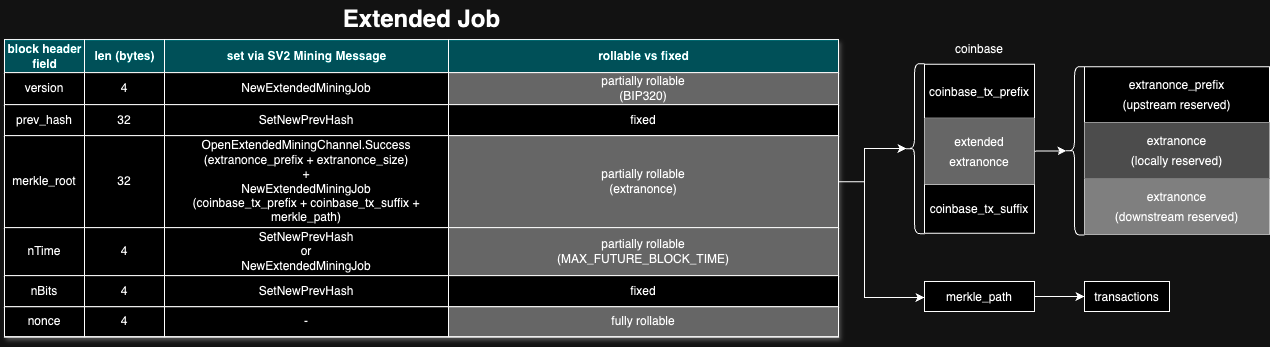
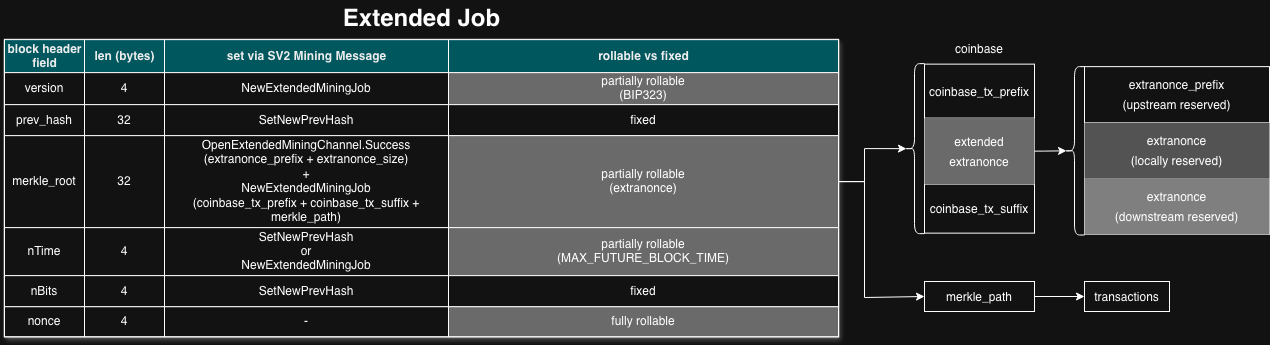
replace BIP320 with BIP323 for version rolling limitations

diff --git a/05-Mining-Protocol.md b/05-Mining-Protocol.md
@@ -14,7 +14,7 @@ Each Mining Device has to work on a unique part of the whole search space.
 The full search space is defined in part by valid values in the following block header fields:
 
 - `nonce` header field (32 bits)
-- `version` header field (16 bits, as specified by [BIP 320](https://github.com/bitcoin/bips/blob/master/bip-0320.mediawiki))
+- `version` header field (24 bits, as specified by [BIP 323](https://github.com/bitcoin/bips/blob/master/bip-0323.mediawiki))
 - `nTime` header field (32 bits timestamp, limited under [`MAX_FUTURE_BLOCK_TIME`](https://github.com/bitcoin/bitcoin/blob/28ce159bc327e6dfec34077ff2e379b23a95db65/src/chain.h#L29))
 
 The other portion of the block header that is used to define the full search space is the Merkle Root, which is deterministically computed from:
@@ -41,12 +41,12 @@ Standard Jobs are restricted to fixed Merkle Roots, where the only modifiable bi
 
 We call this header-only mining (HOM), and it is the smallest assignable unit of search space by the protocol.
 
-The size of the search space for one Standard Job, given a fixed `nTime` field, is `2^(NONCE_BITS + BIP320_VERSION_ROLLING_BITS) = ~280Th`, where `NONCE_BITS = 32` and `BIP320_VERSION_ROLLING_BITS = 16`.
+The size of the search space for one Standard Job, given a fixed `nTime` field, is `2^(NONCE_BITS + BIP323_VERSION_ROLLING_BITS) = ~72PH/s`, where `NONCE_BITS = 32` and `BIP323_VERSION_ROLLING_BITS = 24`.
 This is a guaranteed space before `nTime` rolling (or changing the Merkle Root by sending a new Job).
 
 Standard Jobs are distributed via the [`NewMiningJob`](#5315-newminingjob-server---client) message, which can ONLY be sent via [Standard Channels](#521-standard-channels).
 
-Note that Mining Devices with hashrate above 280 TH/s will outrun the true time when rolling the `nTime` field. This is not necessarily a problem, as long as the Job remains valid within the limits defined by the `MAX_FUTURE_BLOCK_TIME` constant of the Bitcoin protocol (2 hours).
+Note that Mining Devices with hashrate above 72 PH/s will outrun the true time when rolling the `nTime` field. This is not necessarily a problem, as long as the Job remains valid within the limits defined by the `MAX_FUTURE_BLOCK_TIME` constant of the Bitcoin protocol (2 hours).
 
 Depending on the hashrate of the Mining Device, it must receive new Standard Jobs (with a different Merkle Root) frequently enough in order to avoid rolling `nTime` too much ahead of the true time (which could result in rejected work).
 
@@ -407,7 +407,7 @@ If the `min_ntime` field is set, the client MUST start to mine on the new job im
 | channel_id  | U32         | Channel identifier, this must be a standard channel                                                                                                                                                                                                                                                                                                                                                                                                                                 |
 | job_id      | U32         | Identifier of the job as provided by NewMiningJob or NewExtendedMiningJob message                                                                                                                                                                                                                                                                                                                                                                                                   |
 | min_ntime   | OPTION[u32] | Smallest nTime value available for hashing for the new mining job. An empty value indicates this is a future job to be activated once a SetNewPrevHash message is received with a matching job_id. This SetNewPrevHash message provides the new prev_hash and min_ntime. If the min_ntime value is set, this mining job is active and miner must start mining on it immediately. In this case, the new mining job uses the prev_hash from the last received SetNewPrevHash message. |
-| version     | U32         | Valid version field that reflects the current network consensus. The general purpose bits (as specified in BIP320) can be freely manipulated by the downstream node. The downstream node MUST NOT rely on the upstream node to set the BIP320 bits to any particular value.                                                                                                                                                                                                         |
+| version     | U32         | Valid version field that reflects the current network consensus. The general purpose bits (as specified in BIP323) can be freely manipulated by the downstream node. The downstream node MUST NOT rely on the upstream node to set the BIP323 bits to any particular value.                                                                                                                                                                                                         |
 | merkle_root | U256         | Merkle root field as used in the bitcoin block header                                                                                                                                                                                                                                                                                                                                                                                                                              |
 
 ### 5.3.16 `NewExtendedMiningJob` (Server -> Client)
@@ -430,7 +430,7 @@ A proxy MUST translate the message into `NewMiningJob` for all downstream standa
 | job_id                  | U32            | Server’s identification of the mining job                                                                                                                                                                                                                                                                                                                                                                                                                                                        |
 | min_ntime               | OPTION[u32]    | Smallest nTime value available for hashing for the new mining job. An empty value indicates this is a future job to be activated once a SetNewPrevHash message is received with a matching job_id. This SetNewPrevHash message provides the new prev_hash and min_ntime. If the min_ntime value is set, this mining job is active and miner must start mining on it immediately. In this case, the new mining job uses the prev_hash from the last received SetNewPrevHash message. immediately. |
 | version                 | U32            | Valid version field that reflects the current network consensus                                                                                                                                                                                                                                                                                                                                                                                                                                  |
-| version_rolling_allowed | BOOL           | If set to True, the general purpose bits of version (as specified in BIP320) can be freely manipulated by the downstream node. The downstream node MUST NOT rely on the upstream node to set the BIP320 bits to any particular value. If set to False, the downstream node MUST use version as it is defined by this message.                                                                                                                                                                    |
+| version_rolling_allowed | BOOL           | If set to True, the general purpose bits of version (as specified in BIP323) can be freely manipulated by the downstream node. The downstream node MUST NOT rely on the upstream node to set the BIP323 bits to any particular value. If set to False, the downstream node MUST use version as it is defined by this message.                                                                                                                                                                    |
 | merkle_path             | SEQ0_255[U256] | Merkle path hashes ordered from deepest                                                                                                                                                                                                                                                                                                                                                                                                                                                          |
 | coinbase_tx_prefix      | B0_64K         | Prefix part of the coinbase transaction\*                                                                                                                                                                                                                                                                                                                                                                                                                                                        |
 | coinbase_tx_suffix      | B0_64K         | Suffix part of the coinbase transaction                                                                                                                                                                                                                                                                                                                                                                                                                                                          |
@@ -498,7 +498,7 @@ This message signals that JDC expects to be rewarded for working on a Custom Job
 | channel_id                  | U32            | Extended channel identifier                                                                                                                                           |
 | request_id                  | U32            | Client-specified identifier for pairing responses                                                                                                                     |
 | mining_job_token            | B0_255         | Token provided by JDS which uniquely identifies the Custom Job that JDC has declared. See the Job Declaration Protocol for more details.                              |
-| version                     | U32            | Valid version field that reflects the current network consensus. The general purpose bits (as specified in BIP320) can be freely manipulated by the downstream node.  |
+| version                     | U32            | Valid version field that reflects the current network consensus. The general purpose bits (as specified in BIP323) can be freely manipulated by the downstream node.  |
 | prev_hash                   | U256           | Previous block’s hash, found in the block header field                                                                                                                |
 | min_ntime                   | U32            | Smallest nTime value available for hashing                                                                                                                            |
 | nbits                       | U32            | Block header field                                                                                                                                                    |

diff --git a/07-Template-Distribution-Protocol.md b/07-Template-Distribution-Protocol.md
@@ -97,7 +97,7 @@ The primary template-providing function. Note that the `coinbase_tx_outputs` byt
 | --------------------------- | -------------- | ---------------------------------------------------------------------------------------------------------------------------------------------------------------------------------------------------------------------------------------------------------------------------------- |
 | template_id                 | U64            | Server’s identification of the template. Strictly increasing, the current UNIX time may be used in place of an ID                                                                                                                                                                  |
 | future_template             | BOOL           | True if the template is intended for future SetNewPrevHash message sent on the channel. If False, the job relates to the last sent SetNewPrevHash message on the channel and the miner should start to work on the job immediately.                                                |
-| version                     | U32            | Valid header version field that reflects the current network consensus. The general purpose bits (as specified in BIP320) can be freely manipulated by the downstream node. The downstream node MUST NOT rely on the upstream node to set the BIP320 bits to any particular value. |
+| version                     | U32            | Valid header version field that reflects the current network consensus. The general purpose bits (as specified in BIP323) can be freely manipulated by the downstream node. The downstream node MUST NOT rely on the upstream node to set the BIP323 bits to any particular value. |
 | coinbase_tx_version         | U32            | The coinbase transaction nVersion field                                                                                                                                                                                                                                            |
 | coinbase_prefix             | B0_255         | Up to 8 bytes (not including the length byte) which are to be placed at the beginning of the coinbase field in the coinbase transaction                                                                                                                                            |
 | coinbase_tx_input_sequence  | U32            | The coinbase transaction input's nSequence field                                                                                                                                                                                                                                   |
@@ -178,7 +178,7 @@ Upon finding a coinbase transaction/nonce pair which double-SHA256 hashes at or 
 | Field Name       | Data Type | Description                                                                                                                                                                                                                                    |
 | ---------------- | --------- | ---------------------------------------------------------------------------------------------------------------------------------------------------------------------------------------------------------------------------------------------- |
 | template_id      | U64       | The template_id field as it appeared in NewTemplate                                                                                                                                                                                            |
-| version          | U32       | The version field in the block header. Bits not defined by BIP320 as additional nonce MUST be the same as they appear in the NewTemplate message, other bits may be set to any value.                                                              |
+| version          | U32       | The version field in the block header. Bits not defined by BIP323 as additional nonce MUST be the same as they appear in the NewTemplate message, other bits may be set to any value.                                                              |
 | header_timestamp | U32       | The nTime field in the block header. This MUST be greater than or equal to the header_timestamp field in the latest SetNewPrevHash message and lower than or equal to that value plus the number of seconds since the receipt of that message. |
 | header_nonce     | U32       | The nonce field in the header                                                                                                                                                                                                                  |
 | coinbase_tx      | B0_64K    | The full serialized coinbase transaction, meeting all the requirements of the NewTemplate message, above                                                                                                                                           |

diff --git a/06-Job-Declaration-Protocol.md b/06-Job-Declaration-Protocol.md
@@ -199,7 +199,7 @@ A request sent by JDC that proposes a selected set of transactions to JDS.
 | --------------------------- | --------------------- | ---------------------------------------------------------------------------------------------------------------------------------------------------------------------------------------------------------------------------------------------------------------------------------------------------------------------------------------------------------------------------------------------------------------------------- |
 | request_id                  | U32                   | Unique identifier for pairing the response                                                                                                                                                                                                                                                                                                                                                                                   |
 | mining_job_token            | B0_255                | Previously reserved mining job token received by AllocateMiningJobToken.Success                                                                                                                                                                                                                                                                                                                                              |
-| version                     | U32                   | Version header field. To be later modified by BIP320-consistent changes.                                                                                                                                                                                                                                                                                                                                                     |
+| version                     | U32                   | Version header field. To be later modified by BIP323-consistent changes.                                                                                                                                                                                                                                                                                                                                                     |
 | coinbase_tx_prefix         | B0_64K                 | Serialized bytes representing the initial part of the coinbase transaction (not including extranonce)                                                                                                                                                                                                                                                                                                                                                                                      |
 | coinbase_tx_suffix         | B0_64K                 | Serialized bytes representing the final part of the coinbase transaction (after extranonce)                                                                                                                                                                                                                                                                                     |
 | wtxid_list               | SEQ0_64K[U256] | List of wtxids of the transaction set contained in the template. JDS checks the list against its mempool and requests missing txs via `ProvideMissingTransactions`. Does not include the coinbase transaction (as there is no corresponding full data for it yet).                                                                                                                                                          |

diff --git a/02-Design-Goals.md b/02-Design-Goals.md
@@ -20,7 +20,7 @@ As there are numerous changes from the original Stratum v1 to v2, it may be help
 - Avoid introducing any additional risks to pool operators and miners since that would make adoption of v2 very improbable.
 
 - Support version rolling natively.
-  Bitcoin block header contains a version field whose bits (determined by [BIP320](https://github.com/bitcoin/bips/blob/master/bip-0320.mediawiki)) can be freely used to extend the hashing space for a miner.
+  Bitcoin block header contains a version field whose bits (determined by [BIP323](https://github.com/bitcoin/bips/blob/master/bip-0323.mediawiki)) can be freely used to extend the hashing space for a miner.
   It is already a common tech, we want to include it as a first class citizen in the new protocol.
 
 - Support header-only mining (not touching the coinbase transaction) in as many situations as possible.
@@ -29,7 +29,7 @@ As there are numerous changes from the original Stratum v1 to v2, it may be help
 - Dramatically reduce network traffic as well as client-side and server-side computational intensity, while still being able to send and receive hashing results rapidly for precise hash rate measurement (and therefore more precise mining reward distribution).
 
 - Allow miners to (optionally) choose the transaction set they mine through work declaration on some independent communication channel.
-  At the same time, allow miners to choose how they utilize the available bits in the block header `nVersion` field, including both those bits which are used for mining (e.g. version-rolling AsicBoost) by [BIP320](https://github.com/bitcoin/bips/blob/master/bip-0320.mediawiki), and those bits used for [BIP8](https://github.com/bitcoin/bips/blob/master/bip-0008.mediawiki)/[BIP9](https://github.com/bitcoin/bips/tree/master/bip-0009) signaling.
+  At the same time, allow miners to choose how they utilize the available bits in the block header `nVersion` field, including both those bits which are used for mining (e.g. version-rolling AsicBoost) by [BIP323](https://github.com/bitcoin/bips/blob/master/bip-0323.mediawiki), and those bits used for [BIP8](https://github.com/bitcoin/bips/blob/master/bip-0008.mediawiki)/[BIP9](https://github.com/bitcoin/bips/tree/master/bip-0009) signaling.
   This mechanism must not interfere with the efficiency or security of the main mining protocol.
   - Use a separate communication channel for transaction selection so that it does not have a performance impact on the main mining/share communication, as well as can be run in three modes - disabled (i.e.pool does not yet support client work selection, to provide an easier transition from Stratum v1), client-push (to maximally utilize the client’s potential block-receive-latency differences from the pool), and client-declared (for pools worried about the potential of clients generating invalid block templates). The key issue to note is that both the client-push and client-declared approaches essentially function as client-push. The primary distinction between them lies in whether the pool validates the job proposed by the miner or not.
 

diff --git a/10-Discussion.md b/10-Discussion.md
@@ -84,7 +84,7 @@ Technically, we can use the saved bandwidth for more frequent submits to further
 - **channel ID**: identifies an individual mining device or proxy after the channel has been opened. Upstream endpoints perform job submission 
 - **public key**: ...
 - **signature**: signature encoded as...(?)
-- **BIP320**: this proposal identifies general purpose bits within version field of bitcoin block header. Mining devices use these bits to extend their search space.
+- **BIP323**: this proposal identifies general purpose bits within version field of bitcoin block header. Mining devices use these bits to extend their search space.
 - **Merkle root**: the root hash of a Merkle tree which contains the coinbase transaction and the transaction set consisting of all the other transactions in the block.
 
 ## 10.7 Open Questions / Issues
